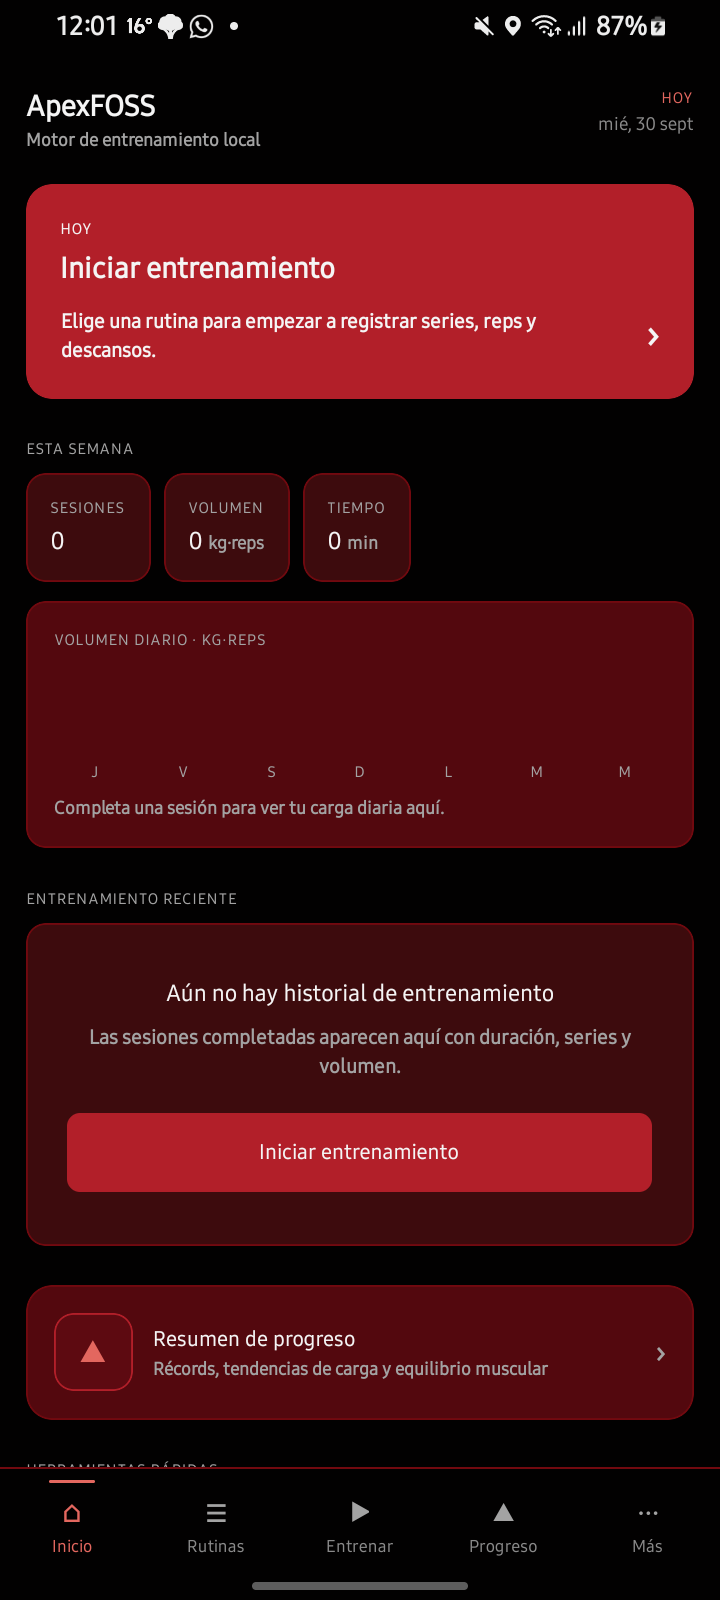
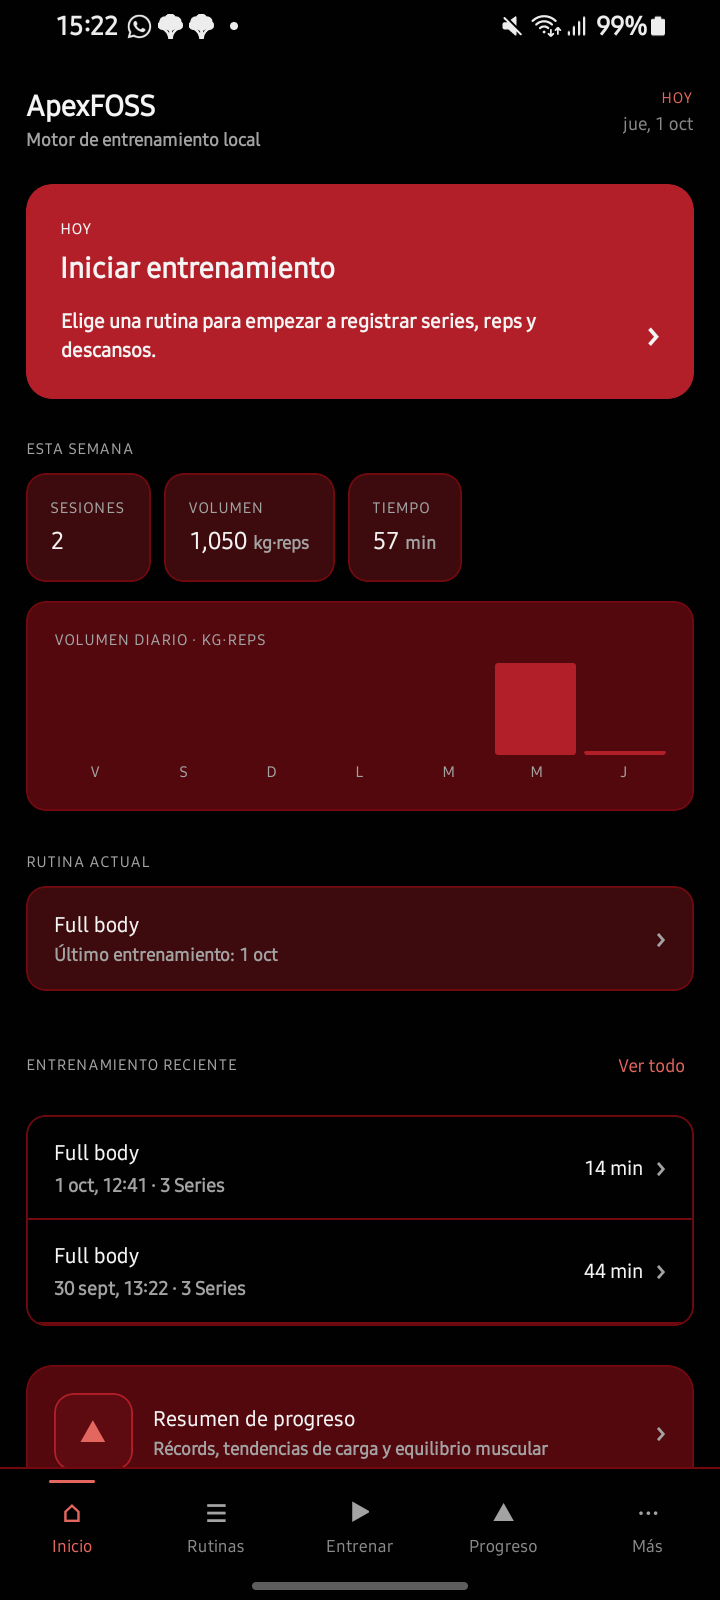
docs: add distribution screenshots and media assets

diff --git a/docs/DISTRIBUTION_ASSETS.md b/docs/DISTRIBUTION_ASSETS.md
@@ -1,13 +1,14 @@
 # Distribution Assets — ApexFOSS 1.1.0
 
-**Status: PARTIAL SET — captured 2026-09-30 on-device. No mockups, no generated images.**
+**Status: FULL SET — captured 2026-09-30 / 2026-10-01 on-device. No mockups, no generated images.**
 **Device:** Samsung SM-A045M (Galaxy A04), Android 14 (API 34), arm64-v8a, 720×1600 portrait.
 **App:** `com.apexfoss.app` 1.1.0 (versionCode 3). EN via in-app language switch; ES = device locale.
-**Videos:** NOT CAPTURED (pending a future device session).
+**Videos:** CAPTURED (2026-10-01, `adb screenrecord`, 8–10 s raw clips; stored outside git in the session's temp dir):
+`vid_home.mp4` (home/overview), `vid_workout.mp4` (start routine → active workout), `vid_progress.mp4` (progress/history).
 
 ## Masters (`docs/assets/screenshots/`)
 
-### en/ (13 + 1)
+### en/ (19)
 
 | File | Screen | Use |
 |---|---|---|
@@ -25,14 +26,24 @@
 | `11-session-detail.png` | Session detail (adherence, load, notes) | history |
 | `12-report.png` | Training report (periods, volume, PRs, adherence) | **progress/history** |
 | `13-more.png` | More hub (tools, reminders, legal) | ownership/about |
+| `14-programs.png` | Programs screen (create + Strength program) | programming |
+| `14-programs-mesocycles.png` | Mesocycle detail (Base, Normal/Deload chips) | programming |
+| `15-portability.png` | Portability (backup/restore, export options) | ownership/data |
+| `16-trust.png` | Trust, Safety & Legal (counts, delete-all, privacy/terms/health/security) | ownership/legal |
+| `17-rest-timer.png` | Rest timer mid-countdown (01:29, Pause / Skip rest, next-up) | **hero candidate (execution)** |
 
-### es/ (3)
+### es/ (8)
 
 | File | Screen | Use |
 |---|---|---|
 | `01-home.png` | Home | es store/README |
-| `02-more.png` | More hub | es docs |
+| `02-more.png` | More hub (compact) | es docs |
 | `03-support.png` | Support section (Sponsors + PayPal + Mercado Pago) | es docs, support visibility proof |
+| `04-mas.png` | More hub (full, Idioma toggle visible) | es docs |
+| `05-entrenar.png` | Train hub (listo/última sesión) | es docs |
+| `06-rutinas.png` | Routines list (Programas/Plantillas/Full body) | es docs |
+| `07-entreno-activo.png` | Active workout (Paso/OBJETIVO/numpad) | es execution |
+| `08-progreso.png` | Progress (sesiones/volumen/tiempo, inteligencia) | es progress |
 
 ## Fastlane selection (`fastlane/metadata/android/<locale>/images/phoneScreenshots/`)
 
@@ -42,12 +53,12 @@
 
 ## Still missing (needs a device session)
 
-- Programs / Mesocycles screen.
-- Portability screen (backup/restore UI).
-- Dedicated rest-timer shot (timer visible mid-countdown).
-- Trust, Safety & Legal screen.
-- More ES screenshots (routines, workout, history).
-- Videos: overview, programming→execution, progress/ownership (raw `screenrecord`, 15–40 s each; store outside git).
+- ~~Programs / Mesocycles screen.~~ done 2026-10-01
+- ~~Portability screen (backup/restore UI).~~ done 2026-10-01
+- ~~Dedicated rest-timer shot (timer visible mid-countdown).~~ done 2026-10-01
+- ~~Trust, Safety & Legal screen.~~ done 2026-10-01
+- ~~More ES screenshots (routines, workout, history).~~ done 2026-10-01
+- ~~Videos: overview, programming→execution, progress/ownership.~~ captured 2026-10-01 (outside git)
 - Feature graphic 1024×500 (Play only; compose from real UI, no mockups).
 
 ## Data note
